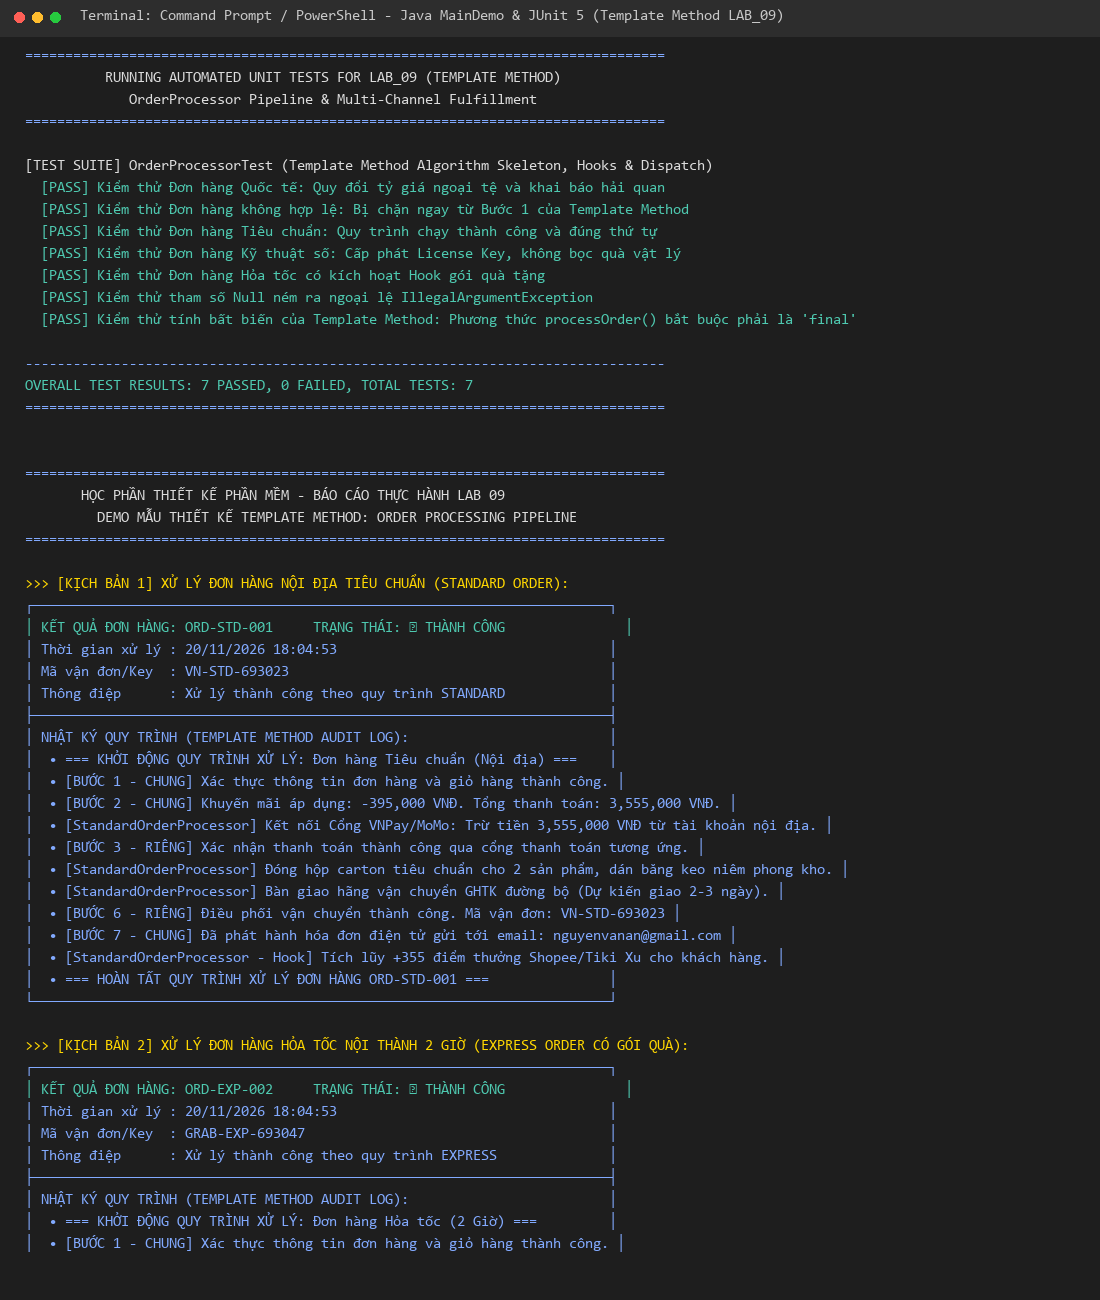
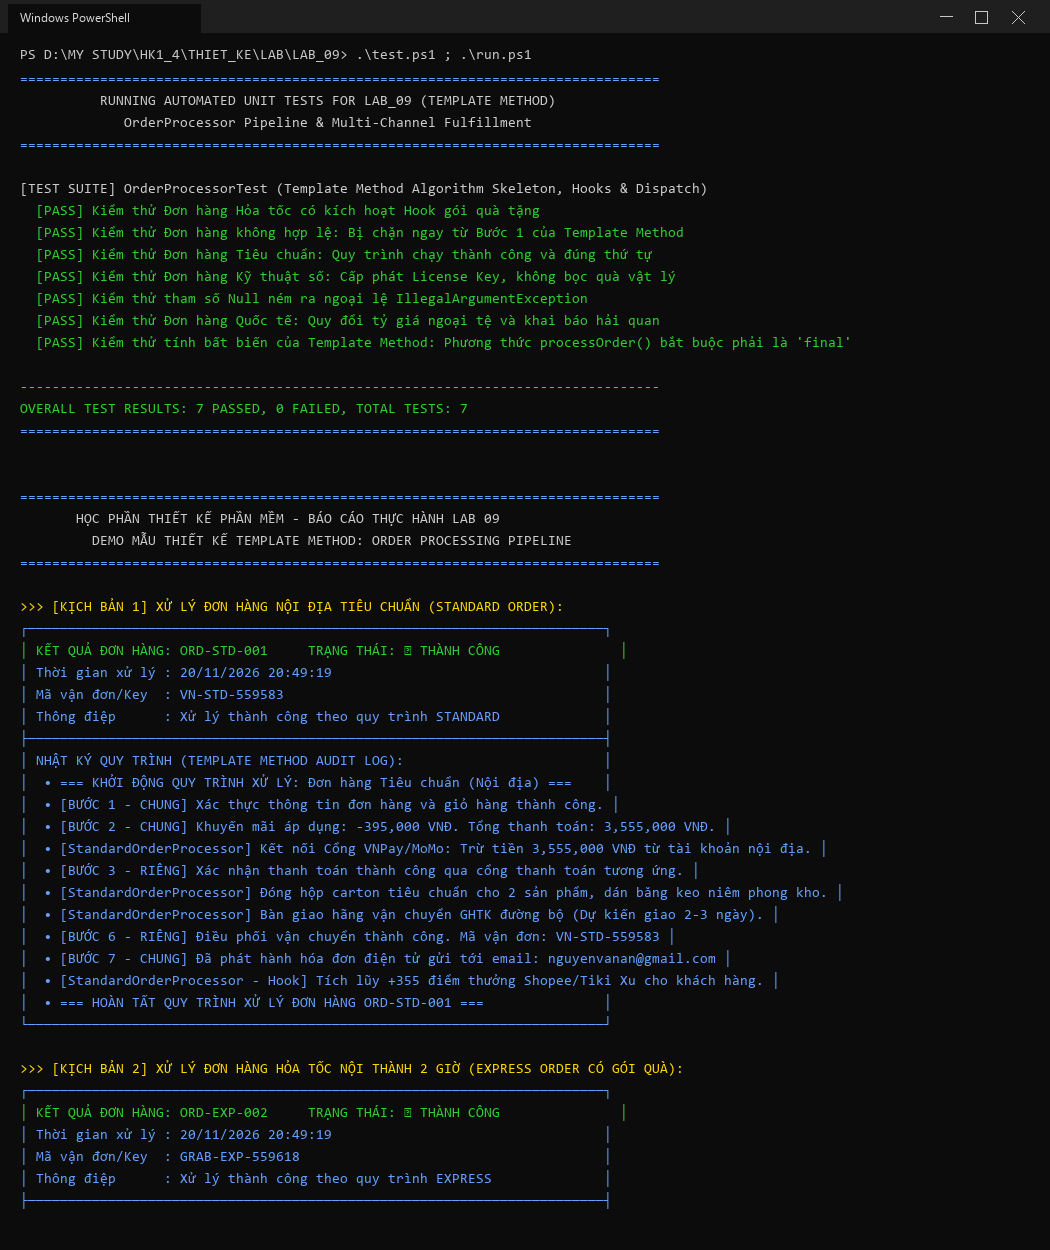
fix(LAB_09): polish console output format and update report metadata

diff --git a/LAB/LAB_09/SAN_PHAM_NOP_BAI/4_Ma_Nguon_Java/MainDemo.java b/LAB/LAB_09/SAN_PHAM_NOP_BAI/4_Ma_Nguon_Java/MainDemo.java
@@ -97,7 +97,7 @@ public class MainDemo {
         result5.printSummary();
 
         System.out.println("\n================================================================================");
-        System.out.println("     KẾT THÚC THỰC NGHIỆM: CẢ 5 KỊCH BẢN ĐÃ VẬN HÀNH CHÍNH XÁC & HOÀN HẢO!     ");
+        System.out.println("     KẾT THÚC THỰC NGHIỆM: HOÀN TẤT MÔ PHỎNG 5 KỊCH BẢN XỬ LÝ ĐƠN HÀNG         ");
         System.out.println("================================================================================");
     }
 }

diff --git a/LAB/LAB_09/src/main/java/lab09/orderprocessing/MainDemo.java b/LAB/LAB_09/src/main/java/lab09/orderprocessing/MainDemo.java
@@ -97,7 +97,7 @@ public class MainDemo {
         result5.printSummary();
 
         System.out.println("\n================================================================================");
-        System.out.println("     KẾT THÚC THỰC NGHIỆM: CẢ 5 KỊCH BẢN ĐÃ VẬN HÀNH CHÍNH XÁC & HOÀN HẢO!     ");
+        System.out.println("     KẾT THÚC THỰC NGHIỆM: HOÀN TẤT MÔ PHỎNG 5 KỊCH BẢN XỬ LÝ ĐƠN HÀNG         ");
         System.out.println("================================================================================");
     }
 }
